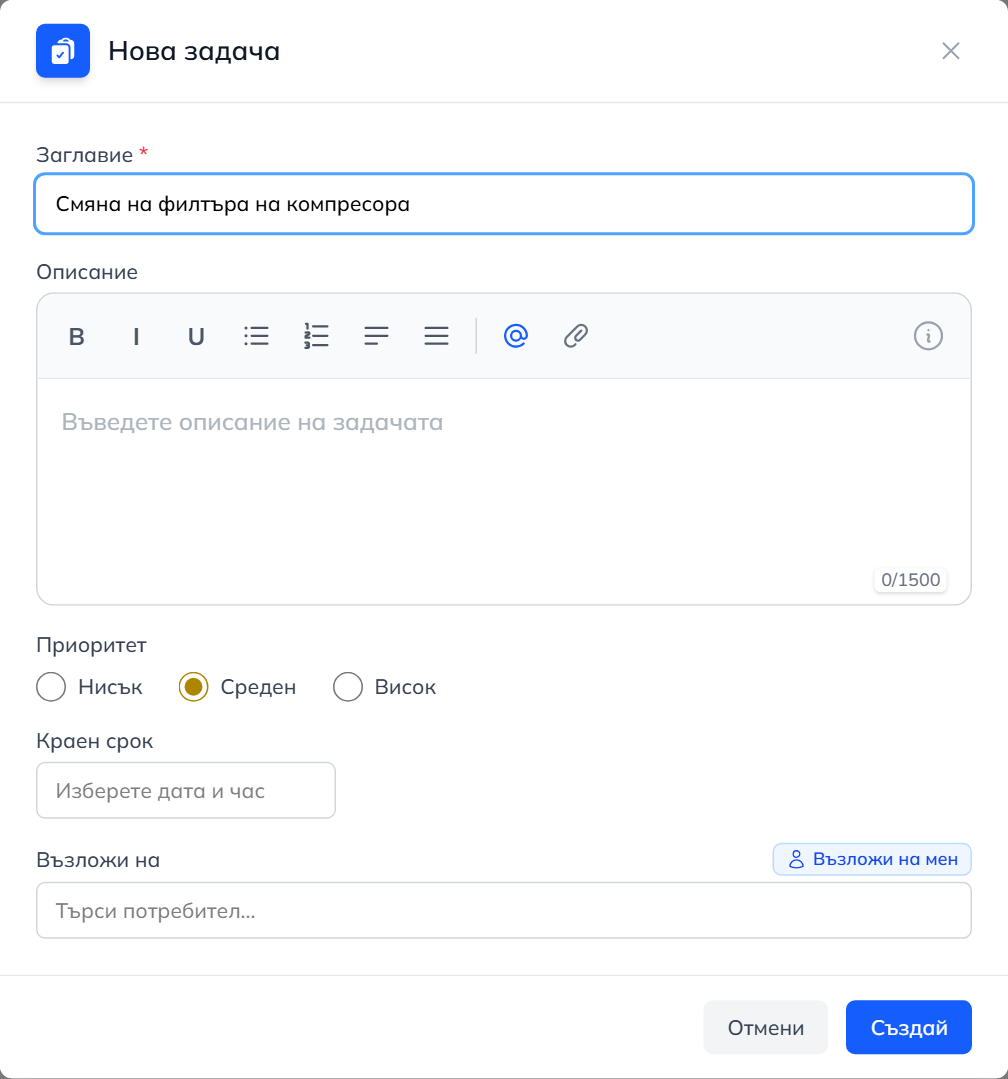
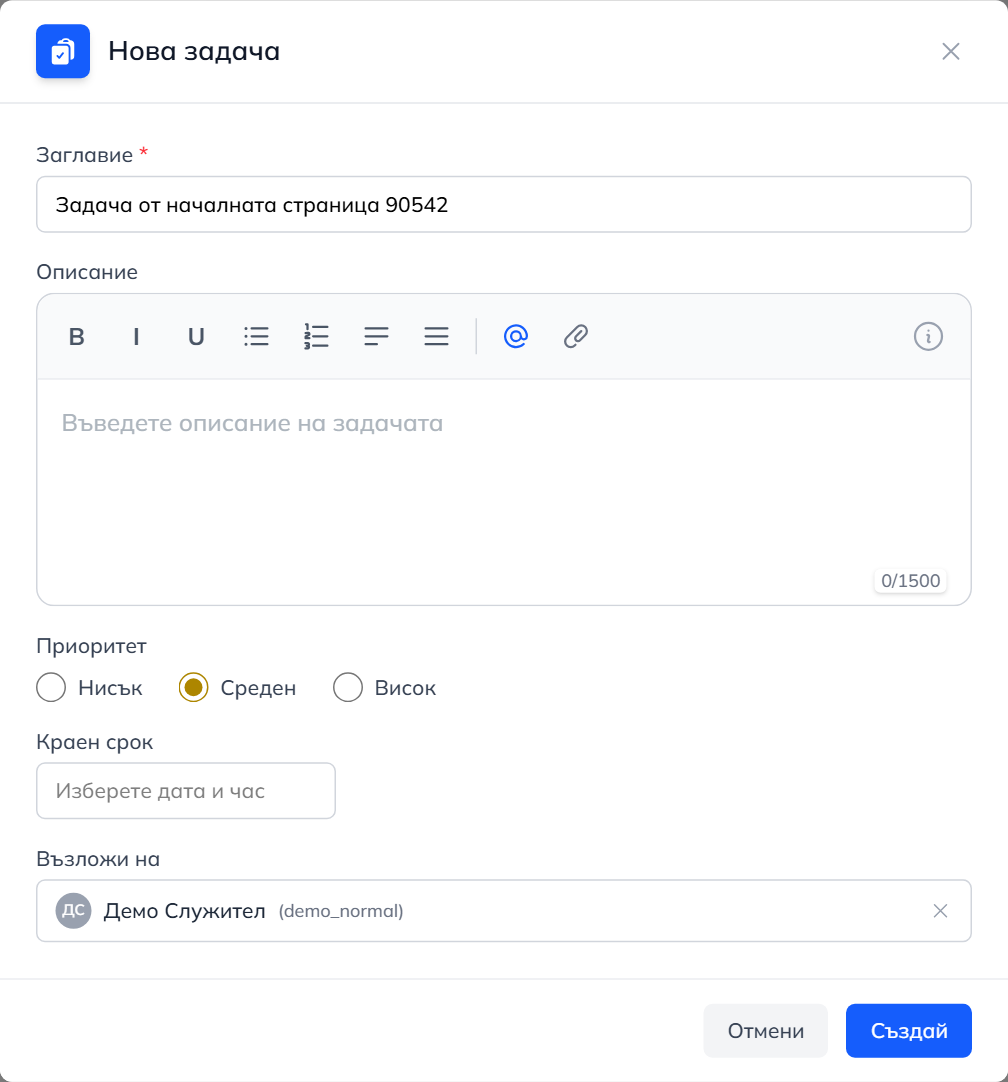
Submit page tile and assign-to-me on the task page (#135)
- The public submission page header shows the same red/green icon tile
  as the NavBar buttons and the case dialogs.
- The assignee changer on a task's page gets the "Възложи на мен"
  shortcut next to Отмени/Запази; it pre-selects the current user (saved
  with Запази as before) and is hidden when the task is already theirs.

diff --git a/src/components/task/TaskAssigneeChanger.tsx b/src/components/task/TaskAssigneeChanger.tsx
@@ -6,7 +6,12 @@ import UserLink from "../global/links/UserLink";
 import UserAvatar from "../cards/UserAvatar";
 import { endpoint } from "../../db/config";
 import UserCombobox from "../global/dropdown/UserCombobox";
-import { UserPlusIcon, XMarkIcon, CheckIcon } from "@heroicons/react/24/solid";
+import {
+  UserIcon,
+  UserPlusIcon,
+  XMarkIcon,
+  CheckIcon,
+} from "@heroicons/react/24/solid";
 
 interface TaskAssigneeChangerProps {
   taskId: string;
@@ -83,8 +88,19 @@ const TaskAssigneeChanger: React.FC<TaskAssigneeChangerProps> = ({
         allowUnassign
       />
 
-      {/* Save/Cancel buttons */}
-      <div className="flex justify-end gap-2">
+      {/* Assign-to-me shortcut, then Save/Cancel */}
+      <div className="flex items-center justify-end gap-2">
+        {selectedUserId !== currentUser._id && (
+          <button
+            type="button"
+            onClick={() => setSelectedUserId(currentUser._id)}
+            disabled={loading}
+            className="mr-auto flex items-center gap-1 rounded-md border border-blue-200 bg-blue-50 px-2 py-1 text-xs font-semibold text-blue-700 hover:bg-blue-100 transition-colors cursor-pointer"
+          >
+            <UserIcon className="h-3.5 w-3.5" />
+            Възложи на мен
+          </button>
+        )}
         <button
           onClick={handleCancel}
           disabled={loading}

diff --git a/src/components/features/caseSubmission/components/CaseSubmissionHeader.tsx b/src/components/features/caseSubmission/components/CaseSubmissionHeader.tsx
@@ -2,10 +2,7 @@
 import React from "react";
 import { Link } from "react-router"; // Corrected import
 import { TFunction } from "i18next";
-import {
-  LightBulbIcon,
-  ExclamationTriangleIcon,
-} from "@heroicons/react/24/solid";
+import SubmissionTypeIcon from "../../../global/SubmissionTypeIcon";
 
 interface CaseSubmissionHeaderProps {
   caseTypeParam: "PROBLEM" | "SUGGESTION";
@@ -29,11 +26,9 @@ const CaseSubmissionHeader: React.FC<CaseSubmissionHeaderProps> = ({
   return (
     <div className="col-span-1 md:col-span-2 flex flex-col md:flex-row justify-between items-start md:items-center gap-4">
       <div className="flex items-center gap-3">
-        {caseTypeParam === "SUGGESTION" ? (
-          <LightBulbIcon className="h-7 w-7 text-green-600" />
-        ) : (
-          <ExclamationTriangleIcon className="h-7 w-7 text-red-600" />
-        )}
+        <SubmissionTypeIcon
+          type={caseTypeParam === "SUGGESTION" ? "suggestion" : "problem"}
+        />
         <div>
           <h2 className="text-xl font-semibold text-gray-800">
             {t("caseSubmission.title", {
